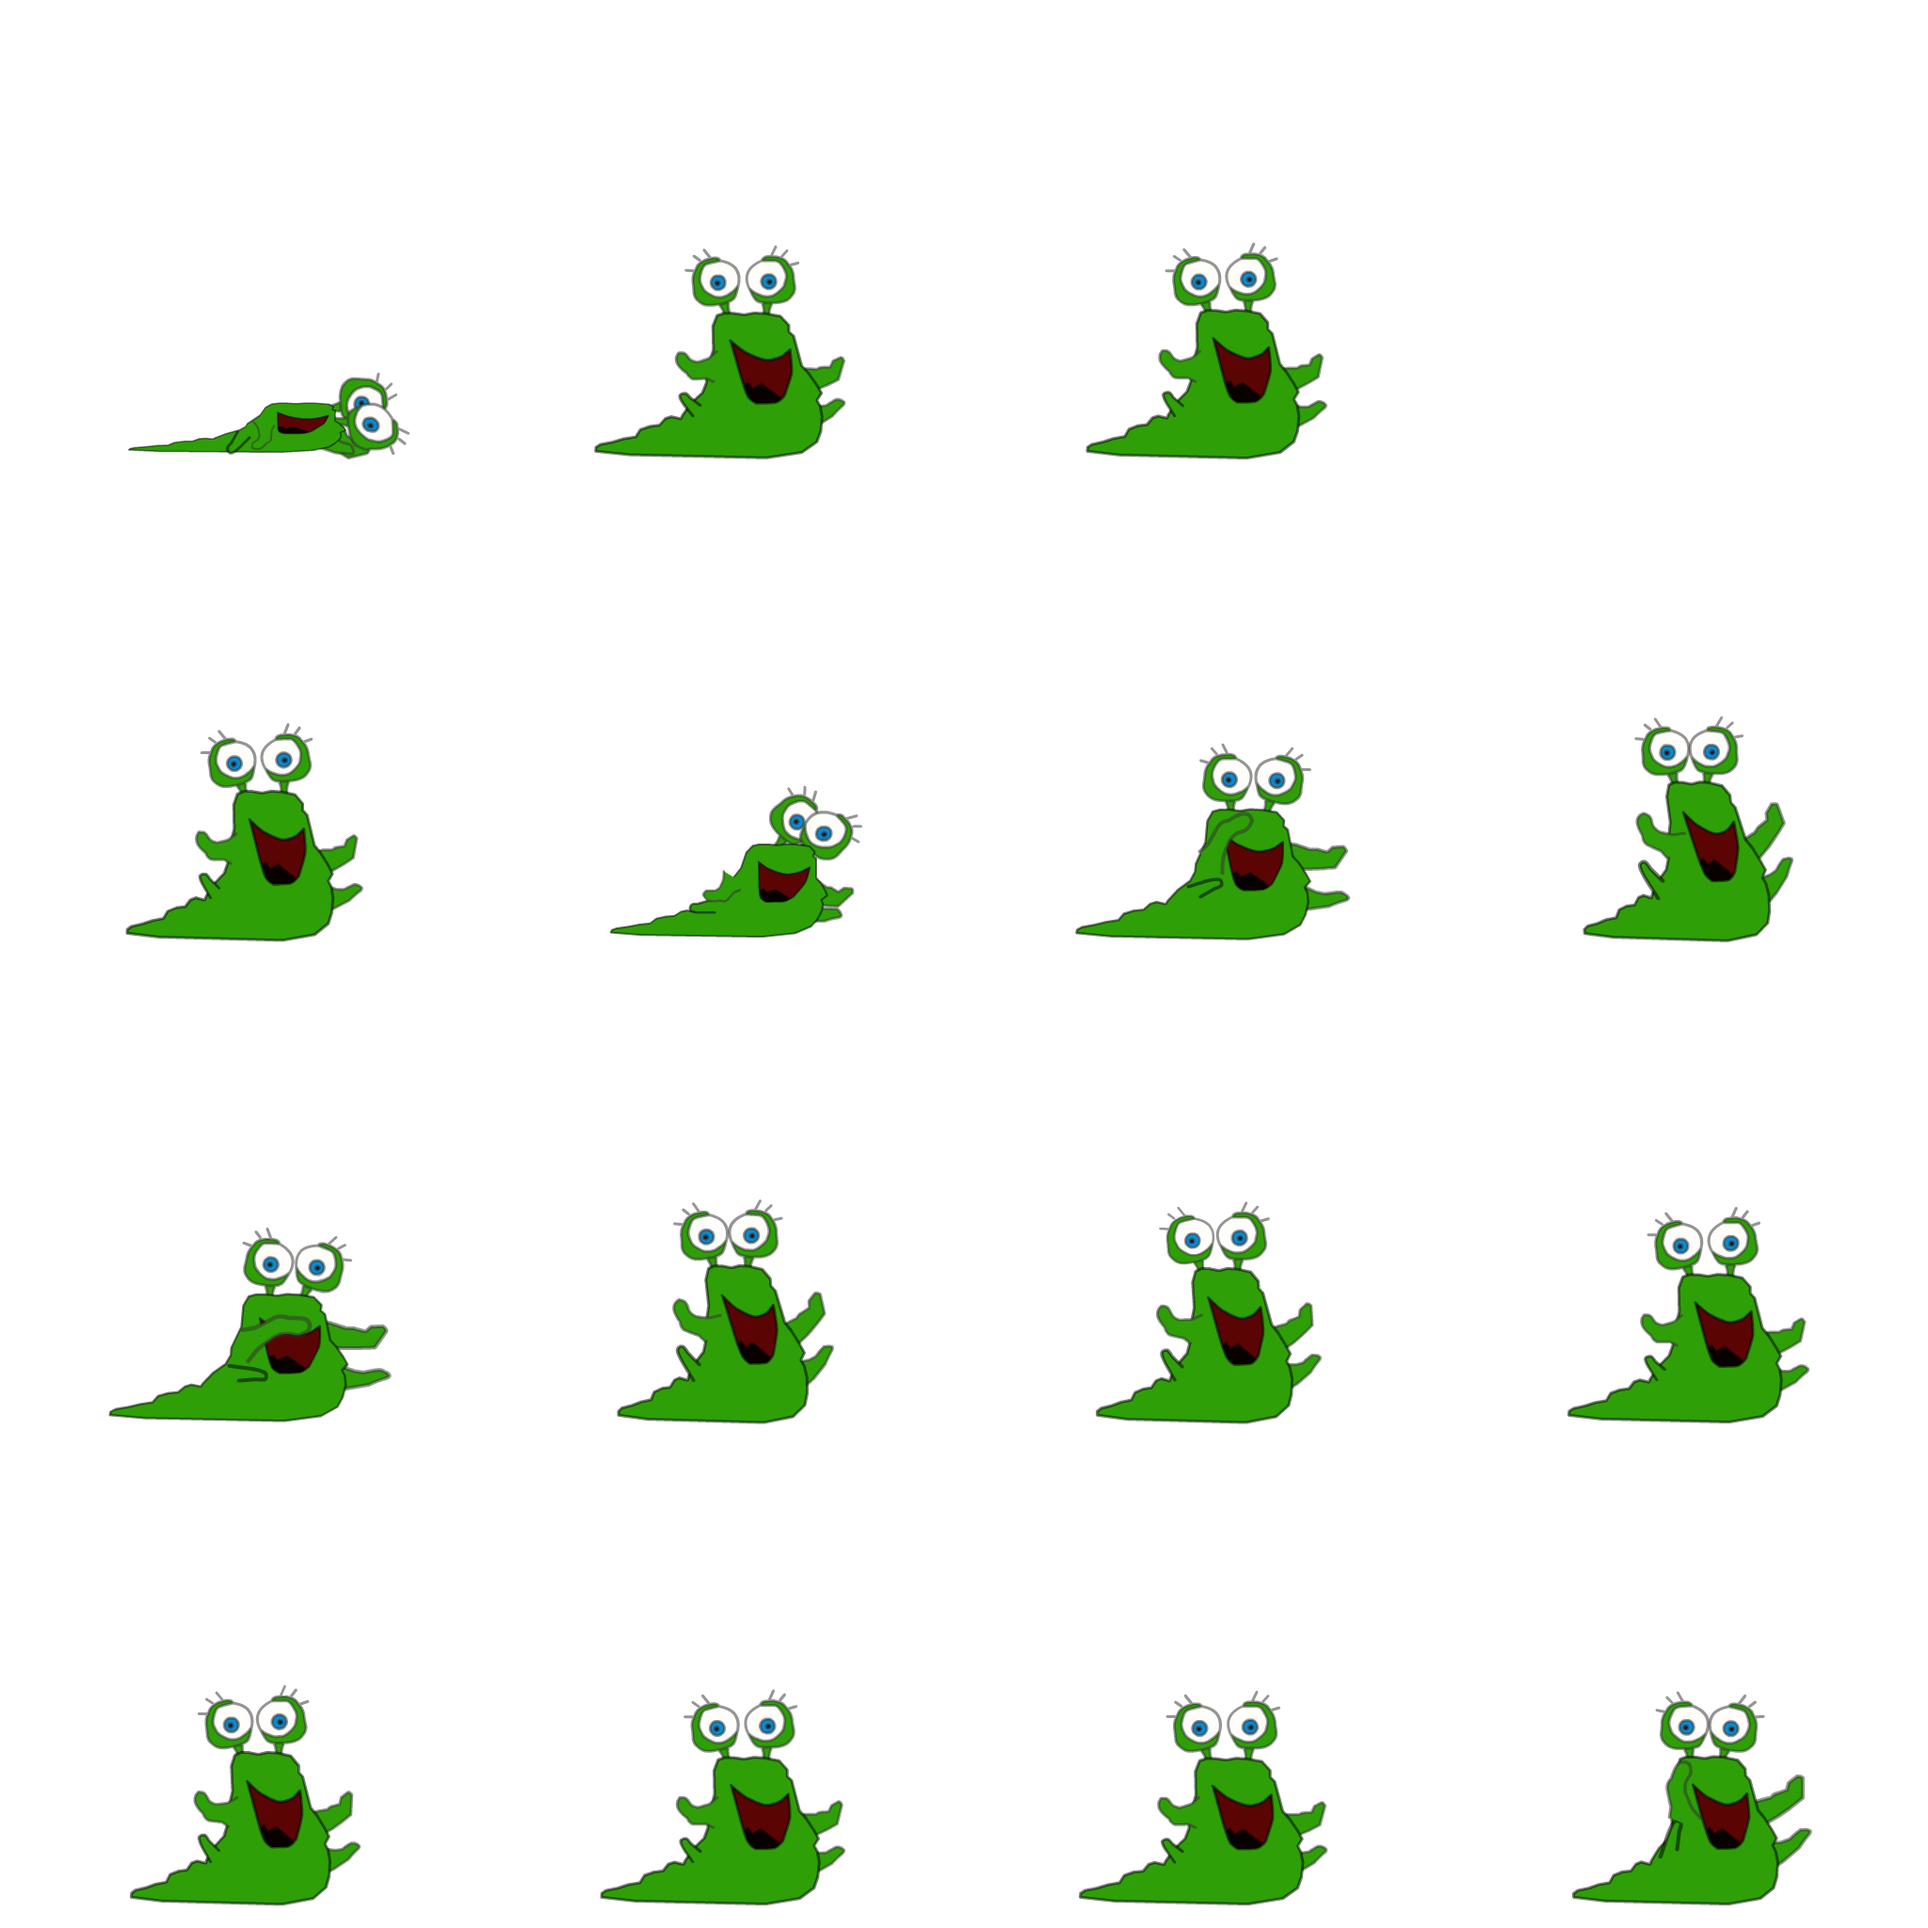
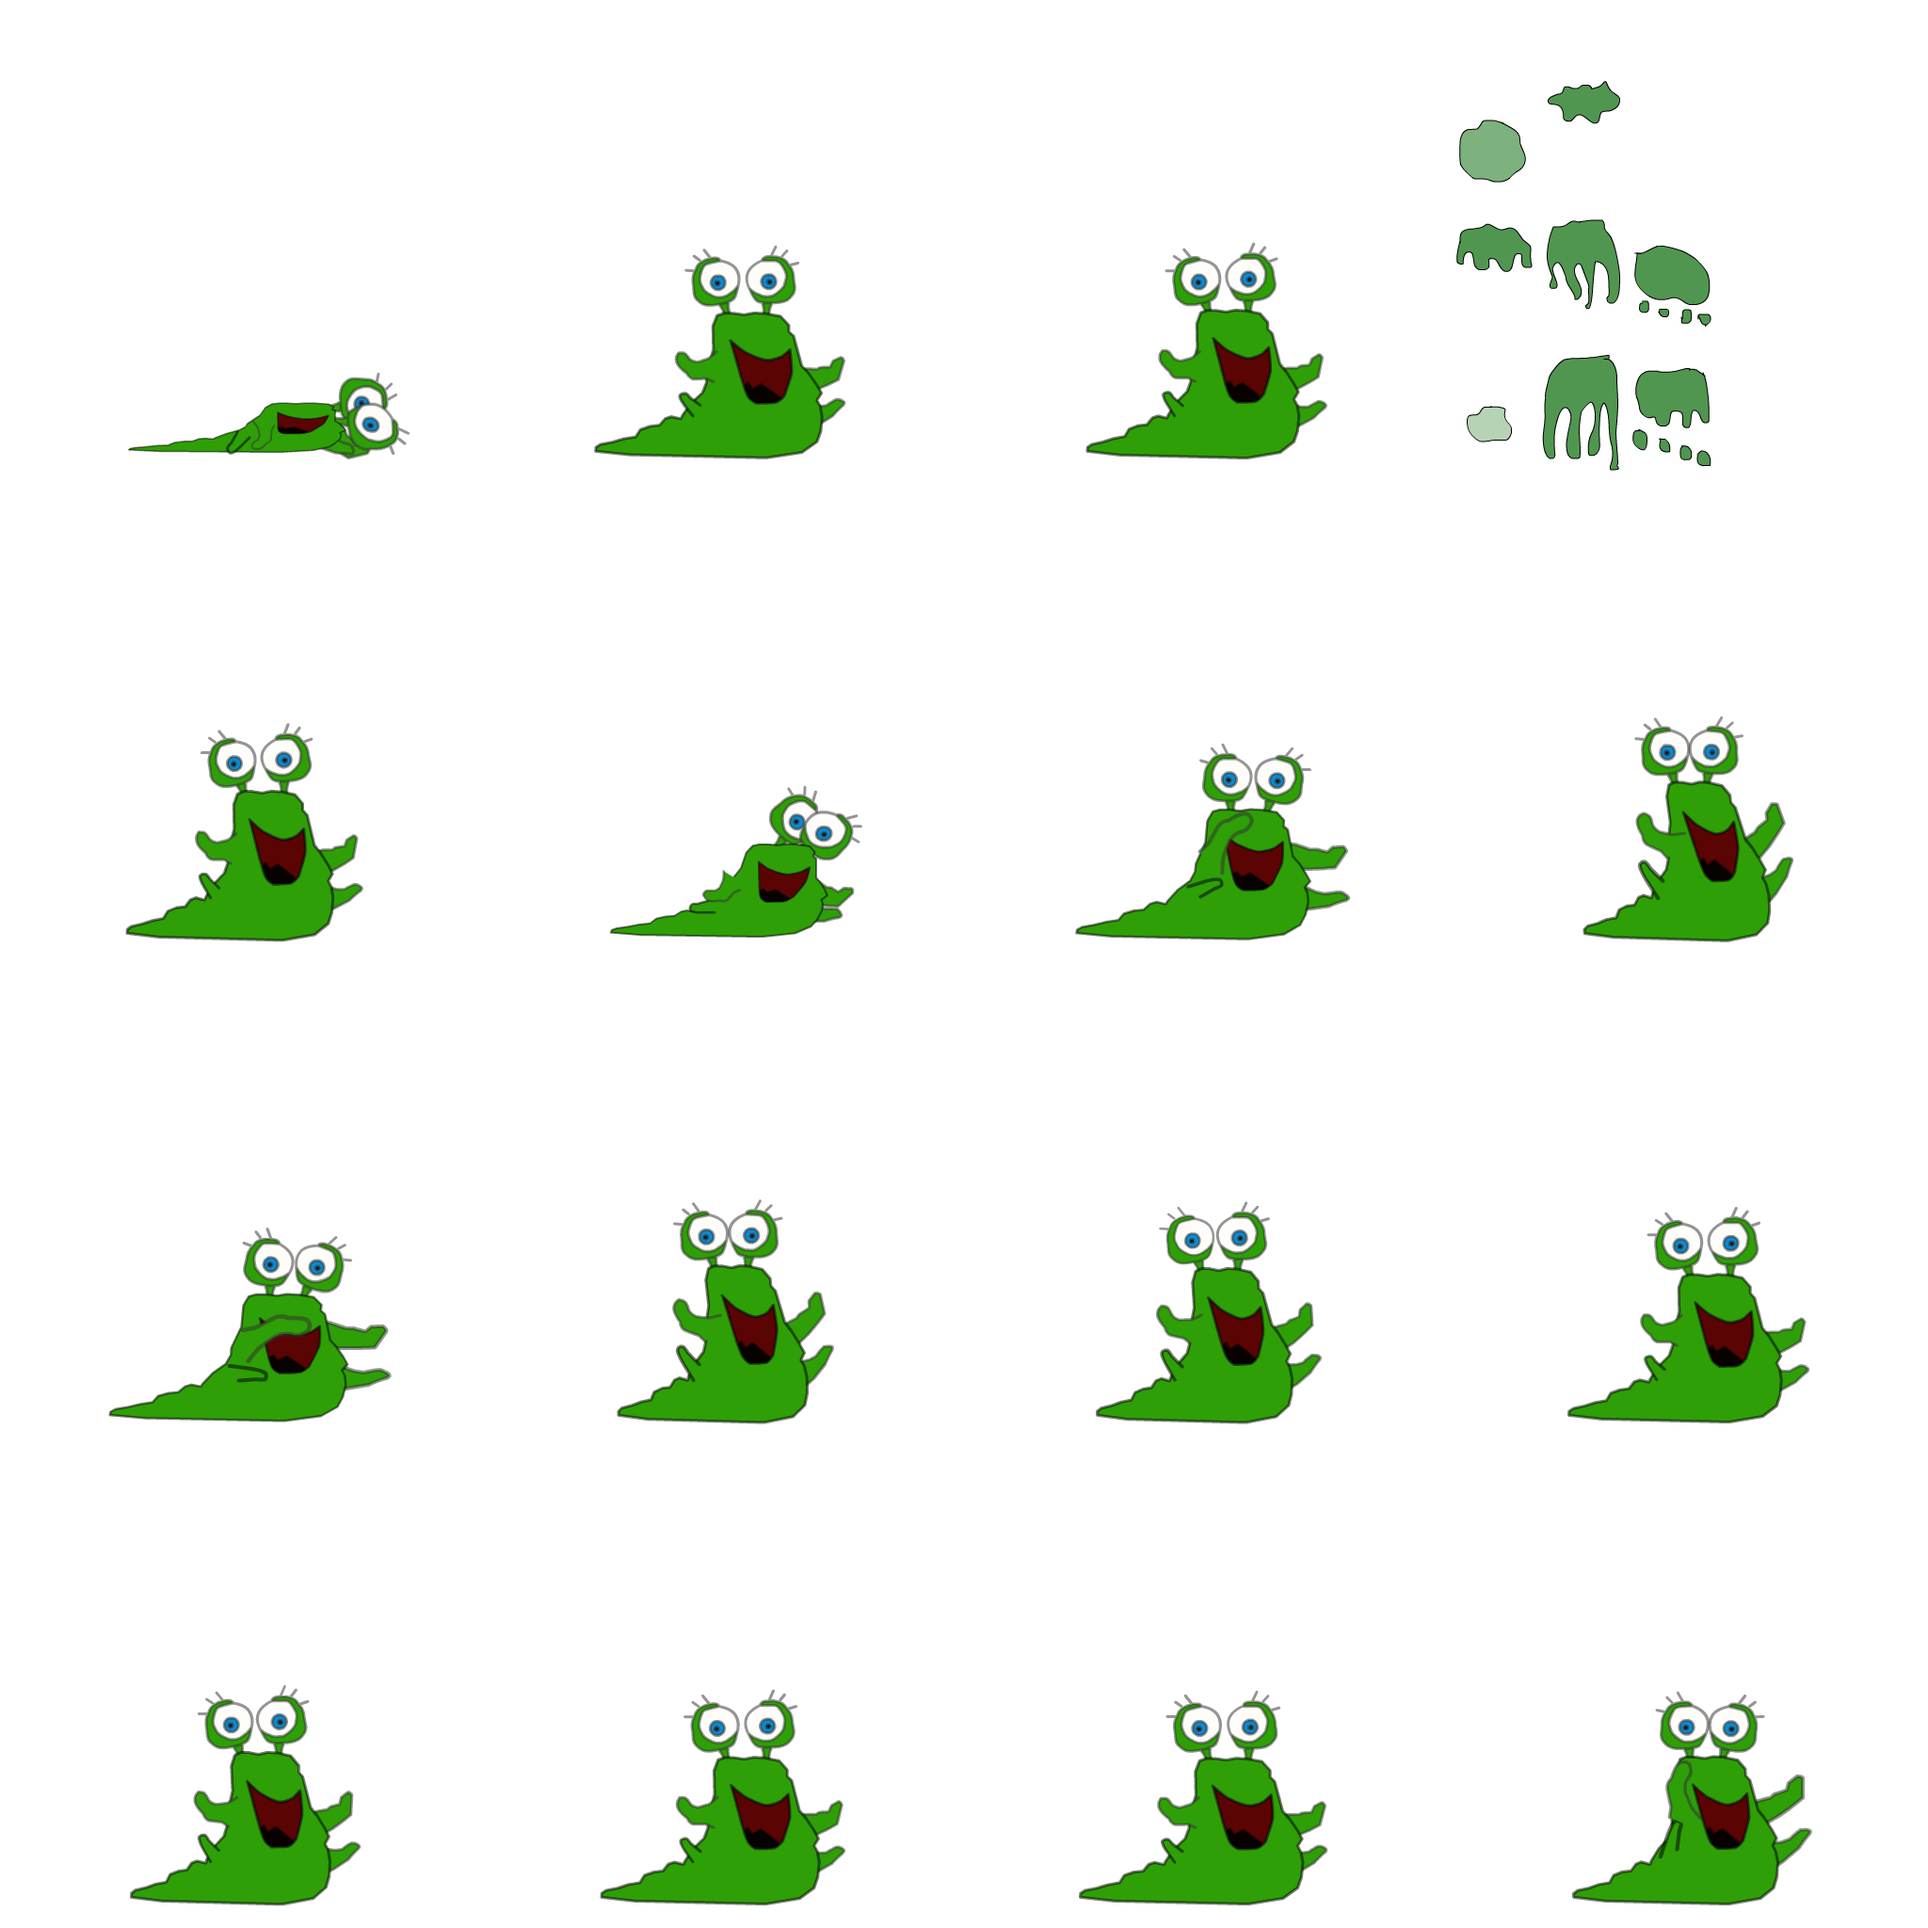
add some abilities for slime mother

Changed region(s): [[0.75, 0.0625, 0.9062, 0.1562], [0.75, 0.1875, 0.9062, 0.25], [0.8125, 0.0312, 0.8438, 0.0625]]

diff --git a/android/battle/src/main/java/com/game7th/battle/unit/npc/slime_boss.kt b/android/battle/src/main/java/com/game7th/battle/unit/npc/slime_boss.kt
@@ -13,25 +13,46 @@ import com.game7th.battle.unit.UnitStats
 import com.game7th.metagame.dto.UnitType
 
 fun produceSlimeBoss(balance: SwipeBalance, level: Int): UnitStats {
-    val hp = balance.slime.hp * level
+    val hp = balance.slime_boss.hp * level
     val slime = UnitStats(UnitType.SLIME_BOSS, level = level, health = CappedStat(hp, hp))
     slime += ability {
         ticker {
-            bodies[TickerEntry(balance.slime_boss.w1, balance.slime.t1, "sword")] = { battle, unit ->
+            bodies[TickerEntry(balance.slime_boss.w1, balance.slime_boss.t1, "sword")] = { battle, unit ->
                 val damage = (unit.stats.level * balance.slime_boss.k1).toInt()
                 if (damage > 0) {
+                    //physical attack
                     battle.findClosestAliveEnemy(unit)?.let { target ->
                         battle.notifyAttack(unit, listOf(target), 0)
                         battle.processDamage(target, unit, DamageVector(damage, 0, 0))
                     }
                 }
+
+                //generate two nodes
+                (0..1).forEach { _ ->
+                    battle.tileField.calculateFreePosition()?.let { position ->
+                        val tile = SwipeTile(TileTemplate("slime_splash", 0), battle.tileField.newTileId(), balance.slime_boss.d1, true)
+                        battle.tileField.tiles[position] = tile
+                        battle.notifyEvent(BattleEvent.CreateTileEvent(tile.toViewModel(), position, -1))
+                    }
+                }
             }
             bodies[TickerEntry(balance.slime_boss.w2, balance.slime_boss.t2, "leaf")] = { battle, unit ->
-                battle.tileField.calculateFreePosition()?.let { position ->
-                    val tile = SwipeTile(TileTemplate("slime_splash", 0), battle.tileField.newTileId(), balance.slime_boss.d2, true)
-                    battle.tileField.tiles[position] = tile
-                    battle.notifyAttack(unit, emptyList(), 1)
-                    battle.notifyEvent(BattleEvent.CreateTileEvent(tile.toViewModel(), position, -1))
+                val damage = (unit.stats.level * balance.slime_boss.k2).toInt()
+                if (damage > 0) {
+                    //physical attack
+                    battle.aliveEnemies(unit).random().let { target ->
+                        battle.notifyAttack(unit, listOf(target), 1)
+                        battle.processDamage(target, unit, DamageVector(0, damage, 0))
+                    }
+                }
+
+                //generate two nodes
+                (0..2).forEach { _ ->
+                    battle.tileField.calculateFreePosition()?.let { position ->
+                        val tile = SwipeTile(TileTemplate("slime_splash", 0), battle.tileField.newTileId(), balance.slime_boss.d2, true)
+                        battle.tileField.tiles[position] = tile
+                        battle.notifyEvent(BattleEvent.CreateTileEvent(tile.toViewModel(), position, -1))
+                    }
                 }
             }
         }
